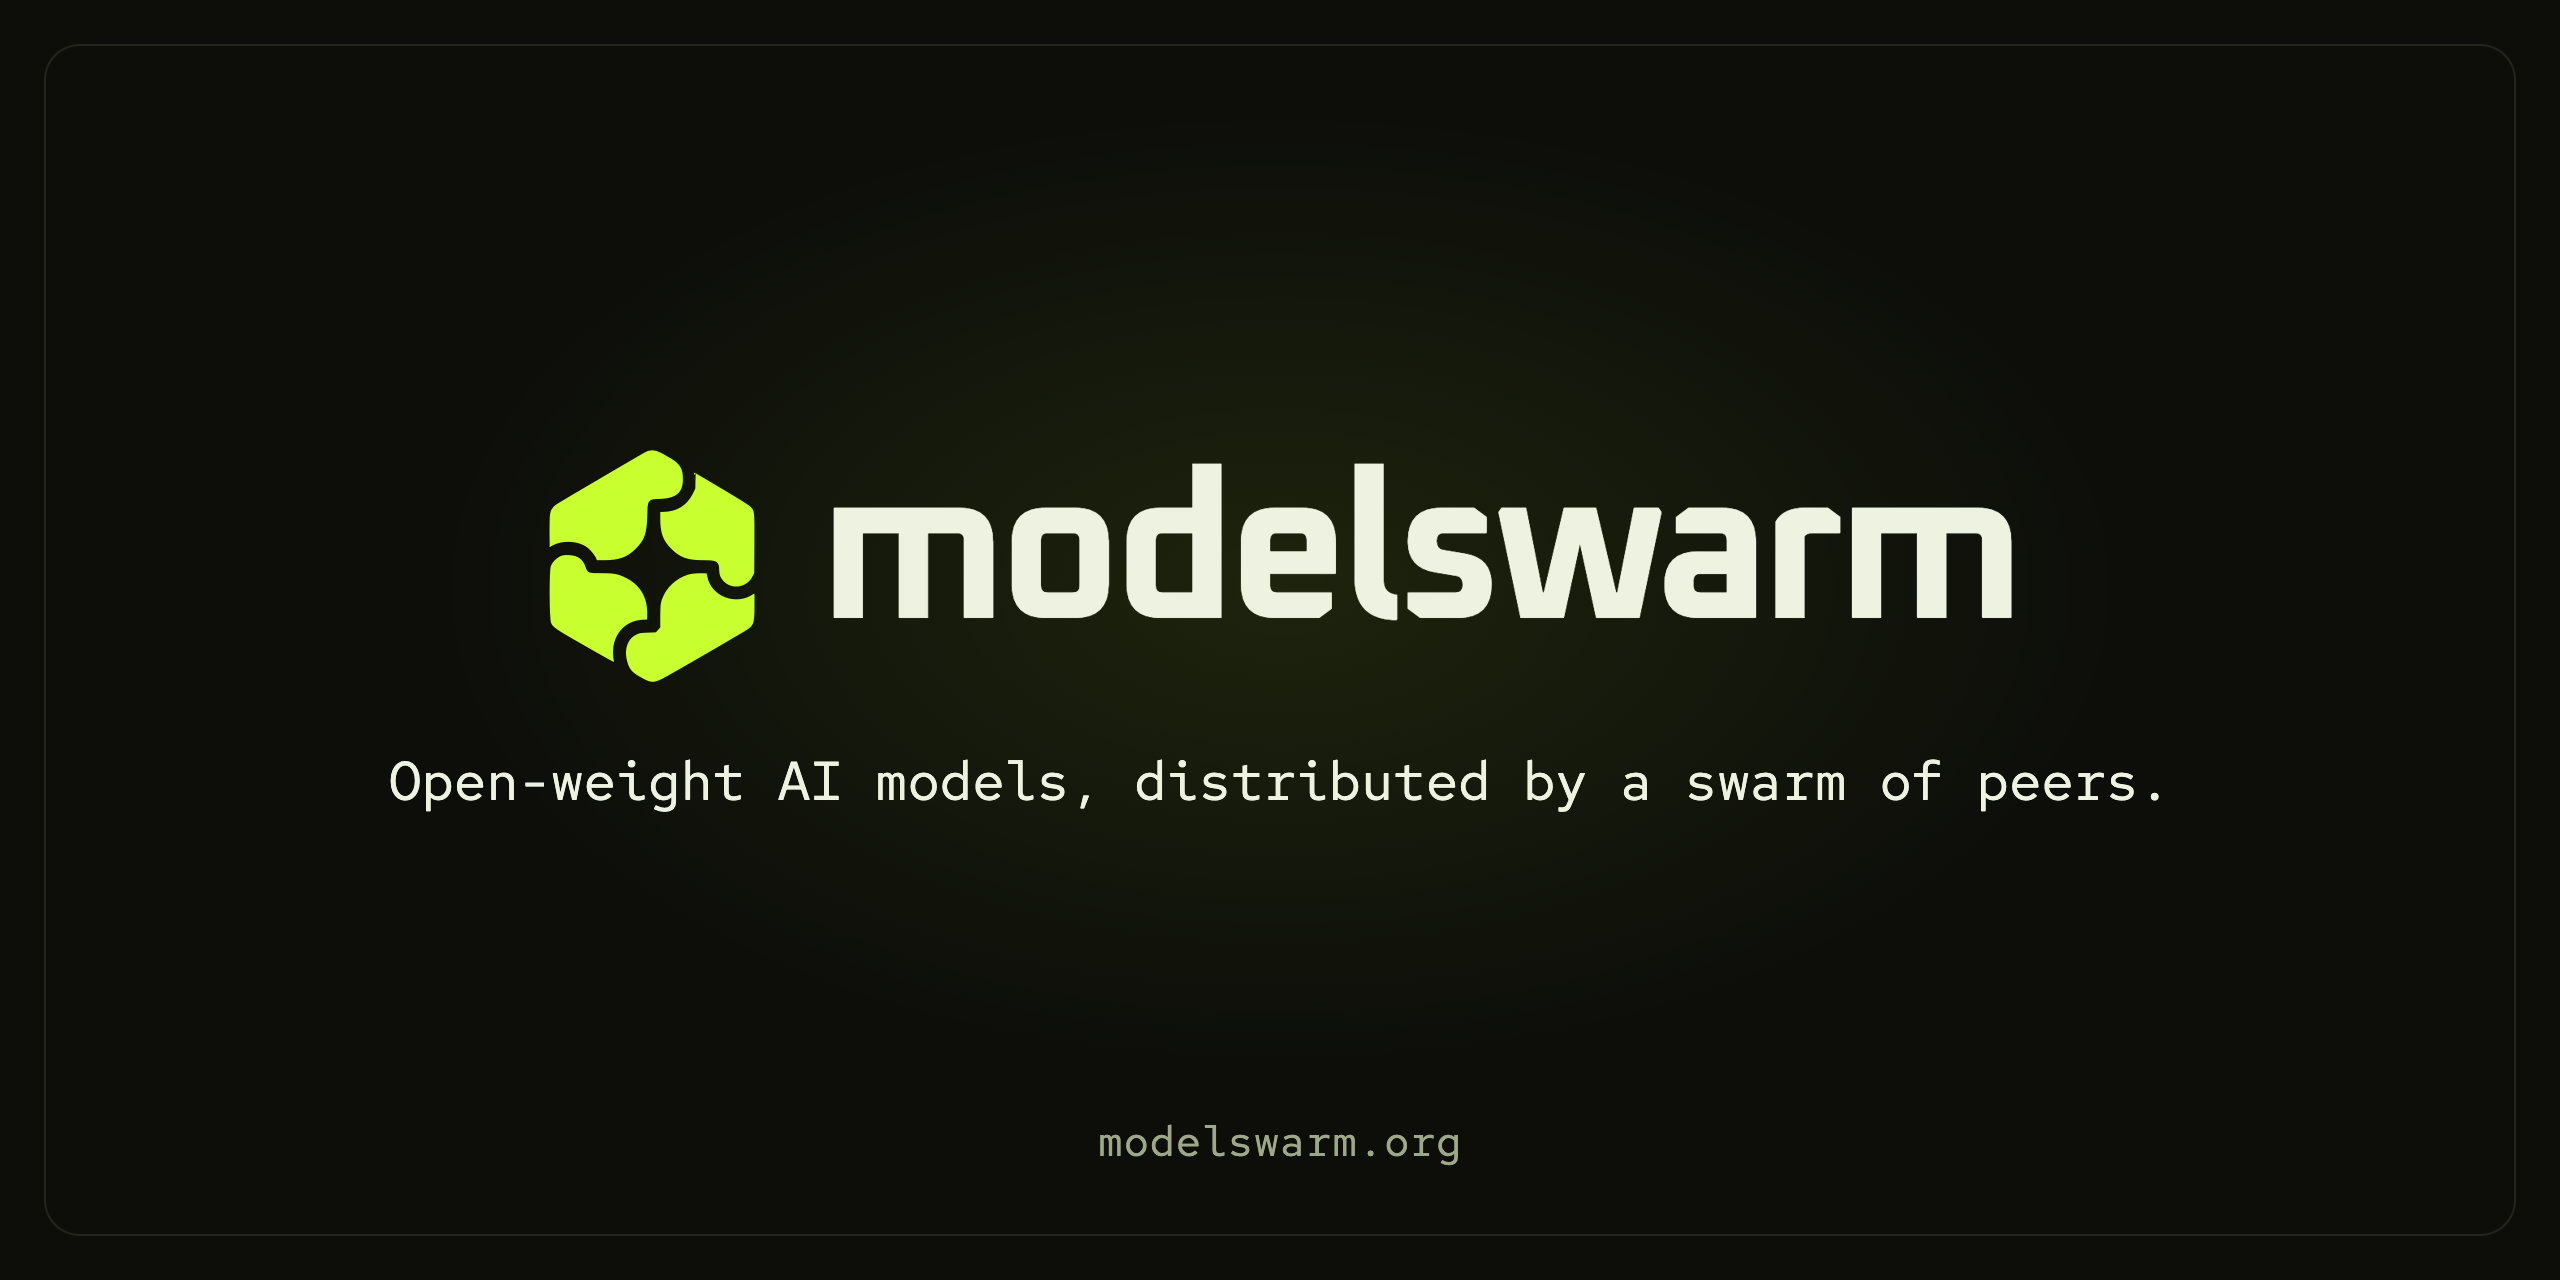
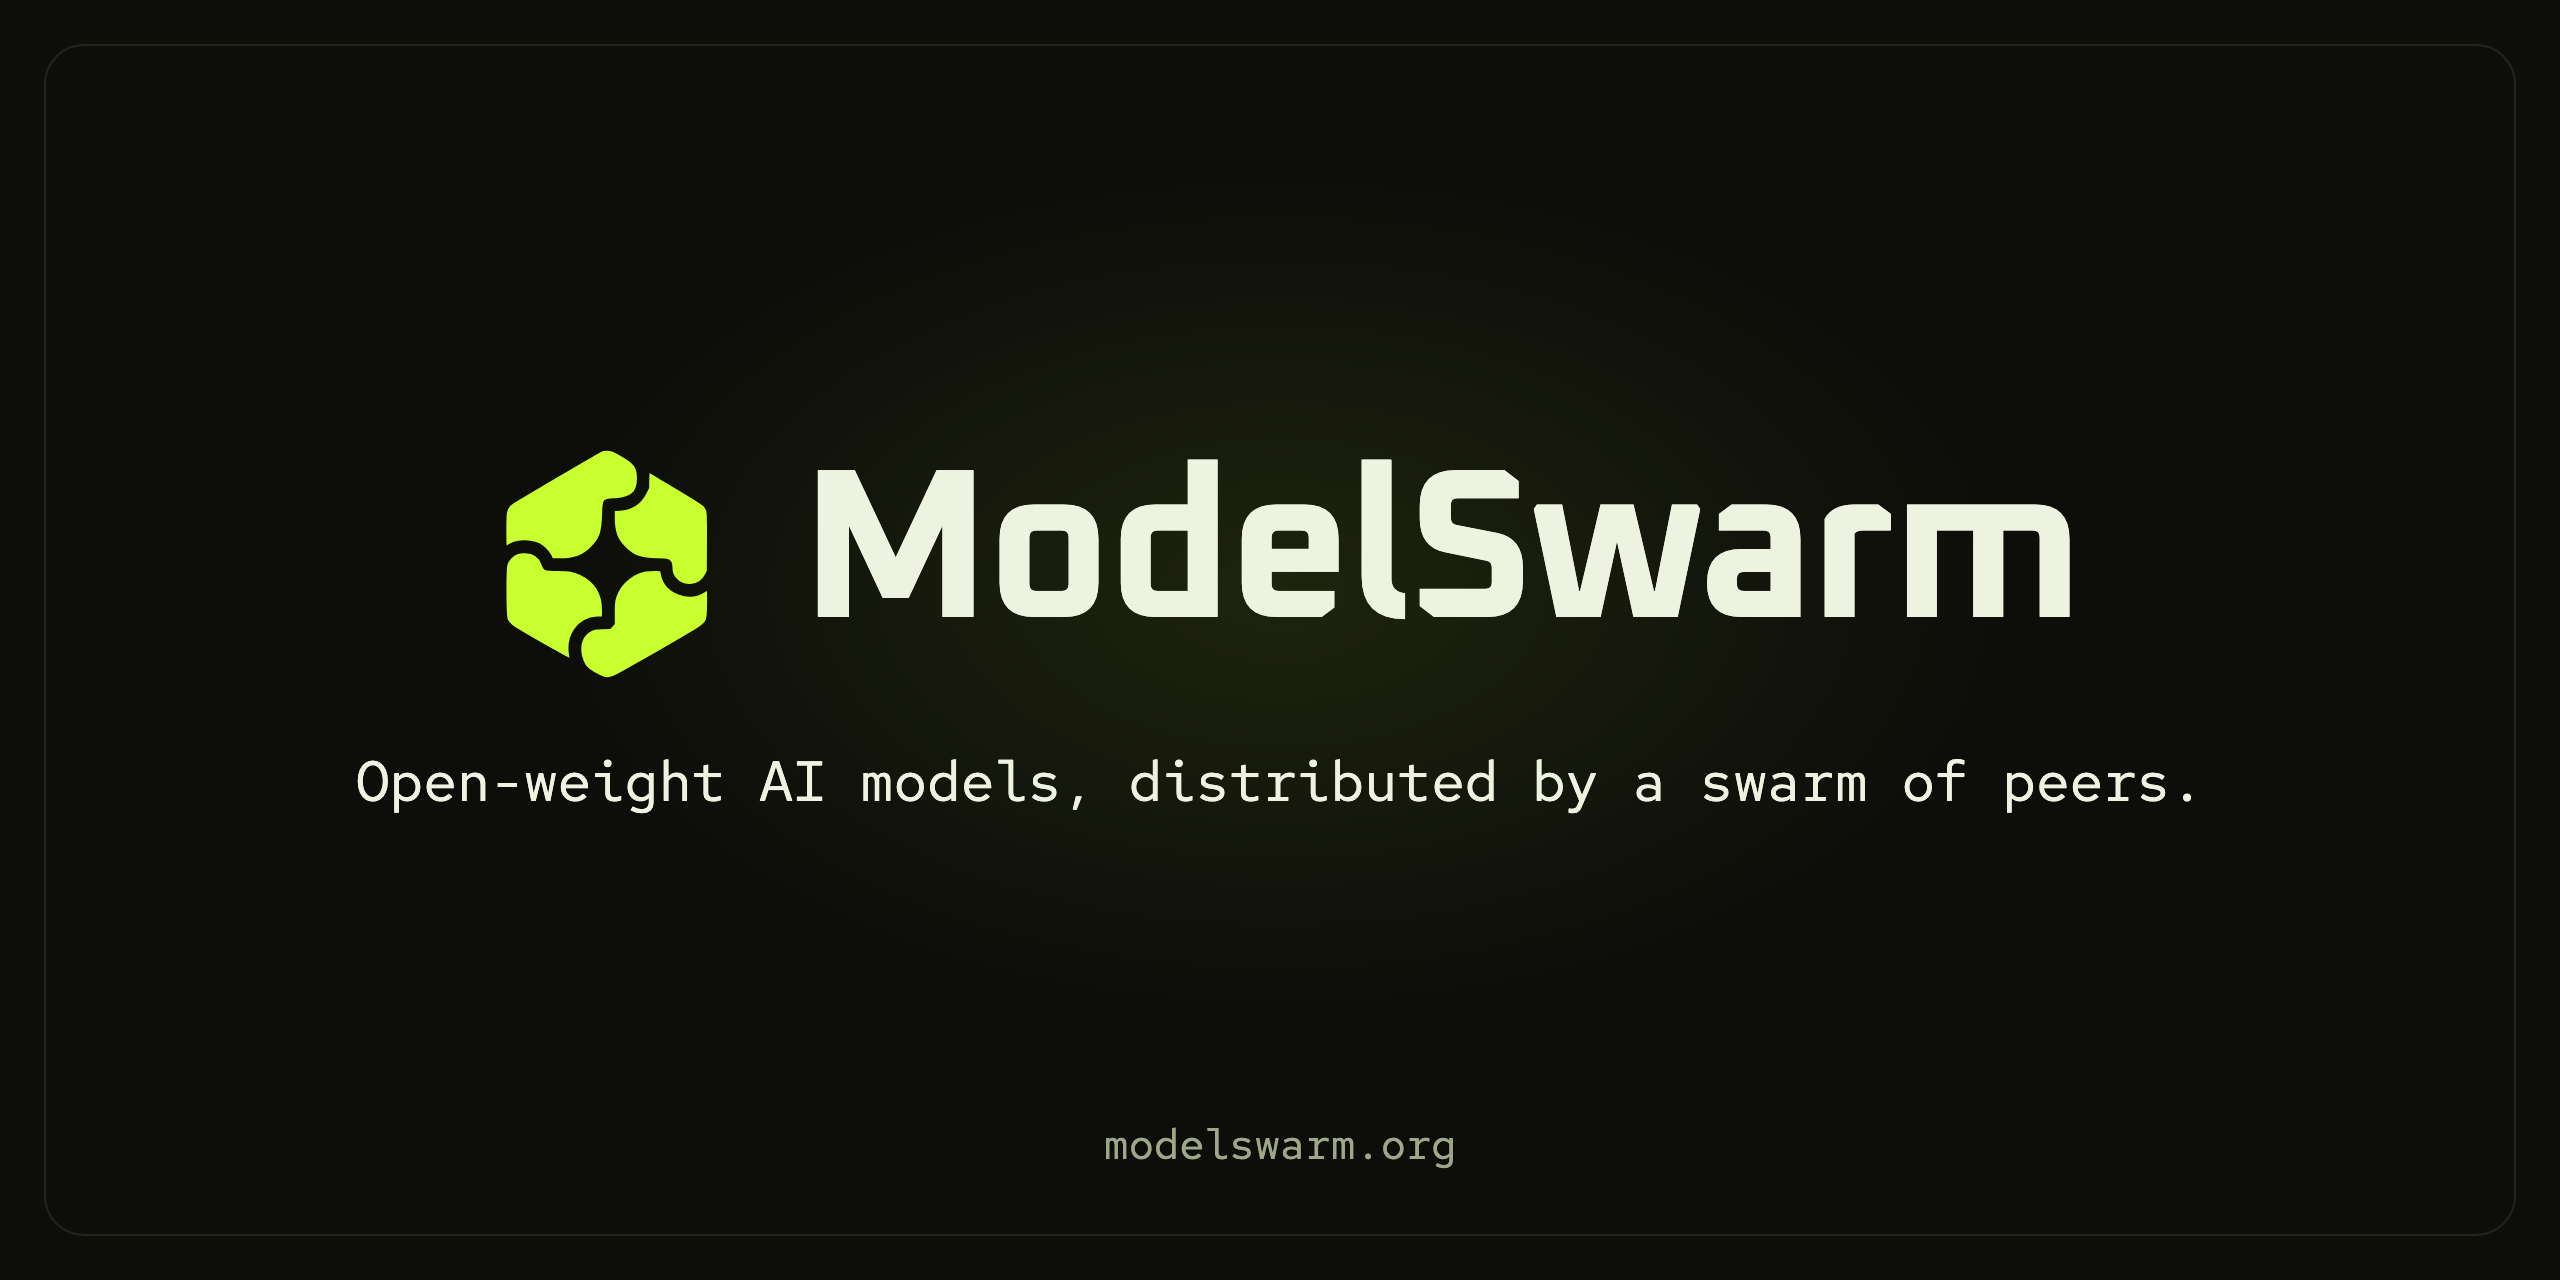
chore(brand): spell the name ModelSwarm
Prose, page titles, the site wordmarks, the logo label, CLI messages and agent docs now say ModelSwarm, and public/og.png is re-rendered with the new wordmark. Identifiers stay lowercase: modelswarm.org, the repo slug, the package and CLI command, MODELSWARM_* variables, schema ids and X-Modelswarm-* headers.

Changed region(s): [[0.1875, 0.3438, 0.8125, 0.5312], [0.125, 0.5938, 0.8438, 0.625], [0.4062, 0.875, 0.5938, 0.9062]]

diff --git a/index.html b/index.html
@@ -5,24 +5,24 @@
     <meta name="viewport" content="width=device-width, initial-scale=1" />
     <meta name="color-scheme" content="dark" />
     <meta name="theme-color" content="#0d0e0a" />
-    <title>Modelswarm: a hub of open-weight AI models that nobody owns</title>
+    <title>ModelSwarm: a hub of open-weight AI models that nobody owns</title>
     <meta
       name="description"
-      content="Modelswarm is an idea for a hub of open-weight AI models served by a swarm of peers, as in a BitTorrent swarm. Publishers sign their releases and every piece is checked as it downloads."
+      content="ModelSwarm is an idea for a hub of open-weight AI models served by a swarm of peers, as in a BitTorrent swarm. Publishers sign their releases and every piece is checked as it downloads."
     />
-    <meta property="og:title" content="Modelswarm" />
+    <meta property="og:title" content="ModelSwarm" />
     <meta
       property="og:description"
       content="Open-weight AI models served by a swarm of peers, as in a BitTorrent swarm. Signed releases, every piece checked as it downloads, and no company hosting them."
     />
     <meta property="og:type" content="website" />
     <meta property="og:url" content="https://modelswarm.org" />
-    <meta property="og:site_name" content="Modelswarm" />
+    <meta property="og:site_name" content="ModelSwarm" />
     <!-- Link previews need an absolute URL. public/og.png is 1280x640 at 2x, the size GitHub's social preview also uses. -->
     <meta property="og:image" content="https://modelswarm.org/og.png" />
     <meta property="og:image:width" content="2560" />
     <meta property="og:image:height" content="1280" />
-    <meta property="og:image:alt" content="The Modelswarm logo and name: open-weight AI models, distributed by a swarm of peers." />
+    <meta property="og:image:alt" content="The ModelSwarm logo and name: open-weight AI models, distributed by a swarm of peers." />
     <meta name="twitter:card" content="summary_large_image" />
     <meta name="twitter:image" content="https://modelswarm.org/og.png" />
     <link rel="icon" type="image/svg+xml" href="./logo.svg" />

diff --git a/src/sections/footer.tsx b/src/sections/footer.tsx
@@ -45,9 +45,9 @@ export function Footer() {
     <footer className={styles.footer}>
       <div className={`wrap ${styles.top}`}>
         <div className={styles.brand}>
-          <a className={styles.mark} href='./' aria-label='Modelswarm home'>
+          <a className={styles.mark} href='./' aria-label='ModelSwarm home'>
             <Logo size={34} />
-            <span>modelswarm</span>
+            <span>ModelSwarm</span>
           </a>
           <p>Open-weight AI models, distributed by a swarm of peers as in a BitTorrent swarm.</p>
           <a className={`button ${styles.star}`} href={REPO}>
@@ -73,7 +73,7 @@ export function Footer() {
       <div className={`wrap ${styles.bottom}`}>
         <p>
           Free software under <a href={doc('LICENSE')}>GPL-3.0-or-later</a>. The project would publish a client and tooling. It hosts no models. The planned client would
-          use Forge RPC by default, but users could switch providers or self-host. Modelswarm stays decentralized. Revenue from optional RPC metadata hosting is
+          use Forge RPC by default, but users could switch providers or self-host. ModelSwarm stays decentralized. Revenue from optional RPC metadata hosting is
           speculative; publisher willingness to pay is unvalidated.
         </p>
         {COMMIT && (

diff --git a/src/data/content.ts b/src/data/content.ts
@@ -1,7 +1,7 @@
 export const REPO = 'https://github.com/bitsocialnet/modelswarm';
 export const NEW_ISSUE = `${REPO}/issues/new`;
 export const doc = (path: string) => `${REPO}/blob/master/${path}`;
-// The original design Modelswarm builds on.
+// The original design ModelSwarm builds on.
 export const HUGGINGSOCIAL = 'https://github.com/Rinse12/huggingsocial';
 
 export type Part = {
@@ -43,7 +43,7 @@ export const PARTS: Part[] = [
   },
 ];
 
-export const COMPARE_COLUMNS = ['Hugging Face', 'Pirate Face', 'Modelswarm'] as const;
+export const COMPARE_COLUMNS = ['Hugging Face', 'Pirate Face', 'ModelSwarm'] as const;
 
 // Pirate Face as its own site describes it (pirateface.co, checked 2026-11-13).
 export const COMPARE_SOURCE = 'Pirate Face as described on pirateface.co in November 2026.';

diff --git a/src/sections/hero.tsx b/src/sections/hero.tsx
@@ -16,7 +16,7 @@ export function Hero() {
           </p>
           <p className={styles.stage}>
             <span className={styles.stageMark} aria-hidden='true' />
-            Modelswarm has an experimental CLI, signed publisher releases and a local Hugging Face endpoint. Public hosting and the full hub remain.
+            ModelSwarm has an experimental CLI, signed publisher releases and a local Hugging Face endpoint. Public hosting and the full hub remain.
           </p>
           <div className={styles.actions}>
             <a className='button button-primary' href={REPO}>

diff --git a/src/sections/thesis.tsx b/src/sections/thesis.tsx
@@ -16,7 +16,7 @@ export function Thesis() {
           </p>
           <p>
             Torrents already keep files alive without a host. What they lack is a way to know who published a file, and a list of models that does not live on one
-            website. Modelswarm adds both with <a href='https://bitsocial.net'>Bitsocial</a>, a peer-to-peer social protocol.
+            website. ModelSwarm adds both with <a href='https://bitsocial.net'>Bitsocial</a>, a peer-to-peer social protocol.
           </p>
         </div>
       </div>

diff --git a/src/components/topbar/topbar.tsx b/src/components/topbar/topbar.tsx
@@ -12,9 +12,9 @@ export function Topbar() {
   return (
     <header className={styles.topbar}>
       <div className={`wrap ${styles.inner}`}>
-        <a className={styles.brand} href='./' aria-label='Modelswarm home'>
+        <a className={styles.brand} href='./' aria-label='ModelSwarm home'>
           <Logo size={30} />
-          <span>modelswarm</span>
+          <span>ModelSwarm</span>
         </a>
         <nav className={styles.nav} aria-label='Main'>
           {LINKS.map((link) => (

diff --git a/src/sections/assembly.tsx b/src/sections/assembly.tsx
@@ -115,7 +115,7 @@ export function Assembly() {
         </div>
         <div className={styles.caption}>
           <h2 id='assembly-title' className={styles.word}>
-            modelswarm
+            ModelSwarm
           </h2>
           <p className={styles.definition}>
             <span className={styles.pos}>noun</span> Open-weight AI models, distributed by a swarm of peers as in a BitTorrent swarm.

diff --git a/cli/tests/test_releases.py b/cli/tests/test_releases.py
@@ -253,7 +253,7 @@ try {
                    "manifest": {"url": self.url + self.manifest.name,
                                 "sha256": hashlib.sha256(self.manifest.read_bytes()).hexdigest()},
                    "modelCard": ""}
-        # Bypass Modelswarm's duplicate-version preflight using the actual SDK.
+        # Bypass ModelSwarm's duplicate-version preflight using the actual SDK.
         # Two comments suffice: a large, valid profile description leaves room
         # for one preloaded announcement, putting the conflict on the next page.
         script = """

diff --git a/cli/src/modelswarm/cache.py b/cli/src/modelswarm/cache.py
@@ -172,7 +172,7 @@ def _check_manifest_marker(directory, revision, digest, *, required=False):
     expected = json.dumps({"manifest_sha256": digest}, sort_keys=True).encode() + b"\n"
     if not os.path.lexists(marker):
         if required:
-            raise ValueError("existing snapshot is not owned by Modelswarm")
+            raise ValueError("existing snapshot is not owned by ModelSwarm")
         return False
     with _open_regular(marker, single_link=True) as stream:
         if stream.read(len(expected) + 1) != expected:

diff --git a/cli/src/modelswarm/releases.py b/cli/src/modelswarm/releases.py
@@ -122,7 +122,7 @@ def read_key(path):
     if (not isinstance(value, dict) or set(value) != {"schema", "type", "privateKey"}
             or value["schema"] != KEY_SCHEMA or value["type"] != "ed25519"
             or not isinstance(value["privateKey"], str) or not re.fullmatch(r"[A-Za-z0-9+/]{43}", value["privateKey"])):
-        raise ValueError("invalid Modelswarm Ed25519 key file")
+        raise ValueError("invalid ModelSwarm Ed25519 key file")
     return value["privateKey"]
 
 

diff --git a/cli/src/modelswarm/endpoint.py b/cli/src/modelswarm/endpoint.py
@@ -181,7 +181,7 @@ def _repo(parts):
 def handler_for(backend):
     class Handler(BaseHTTPRequestHandler):
         protocol_version = "HTTP/1.1"
-        server_version = "Modelswarm/0.0.1"
+        server_version = "ModelSwarm/0.0.1"
 
         def setup(self):
             super().setup()

diff --git a/cli/src/modelswarm/cli.py b/cli/src/modelswarm/cli.py
@@ -1,4 +1,4 @@
-"""Noninteractive Modelswarm make/verify/pull commands; results are JSON."""
+"""Noninteractive ModelSwarm make/verify/pull commands; results are JSON."""
 
 import argparse
 from contextlib import contextmanager
